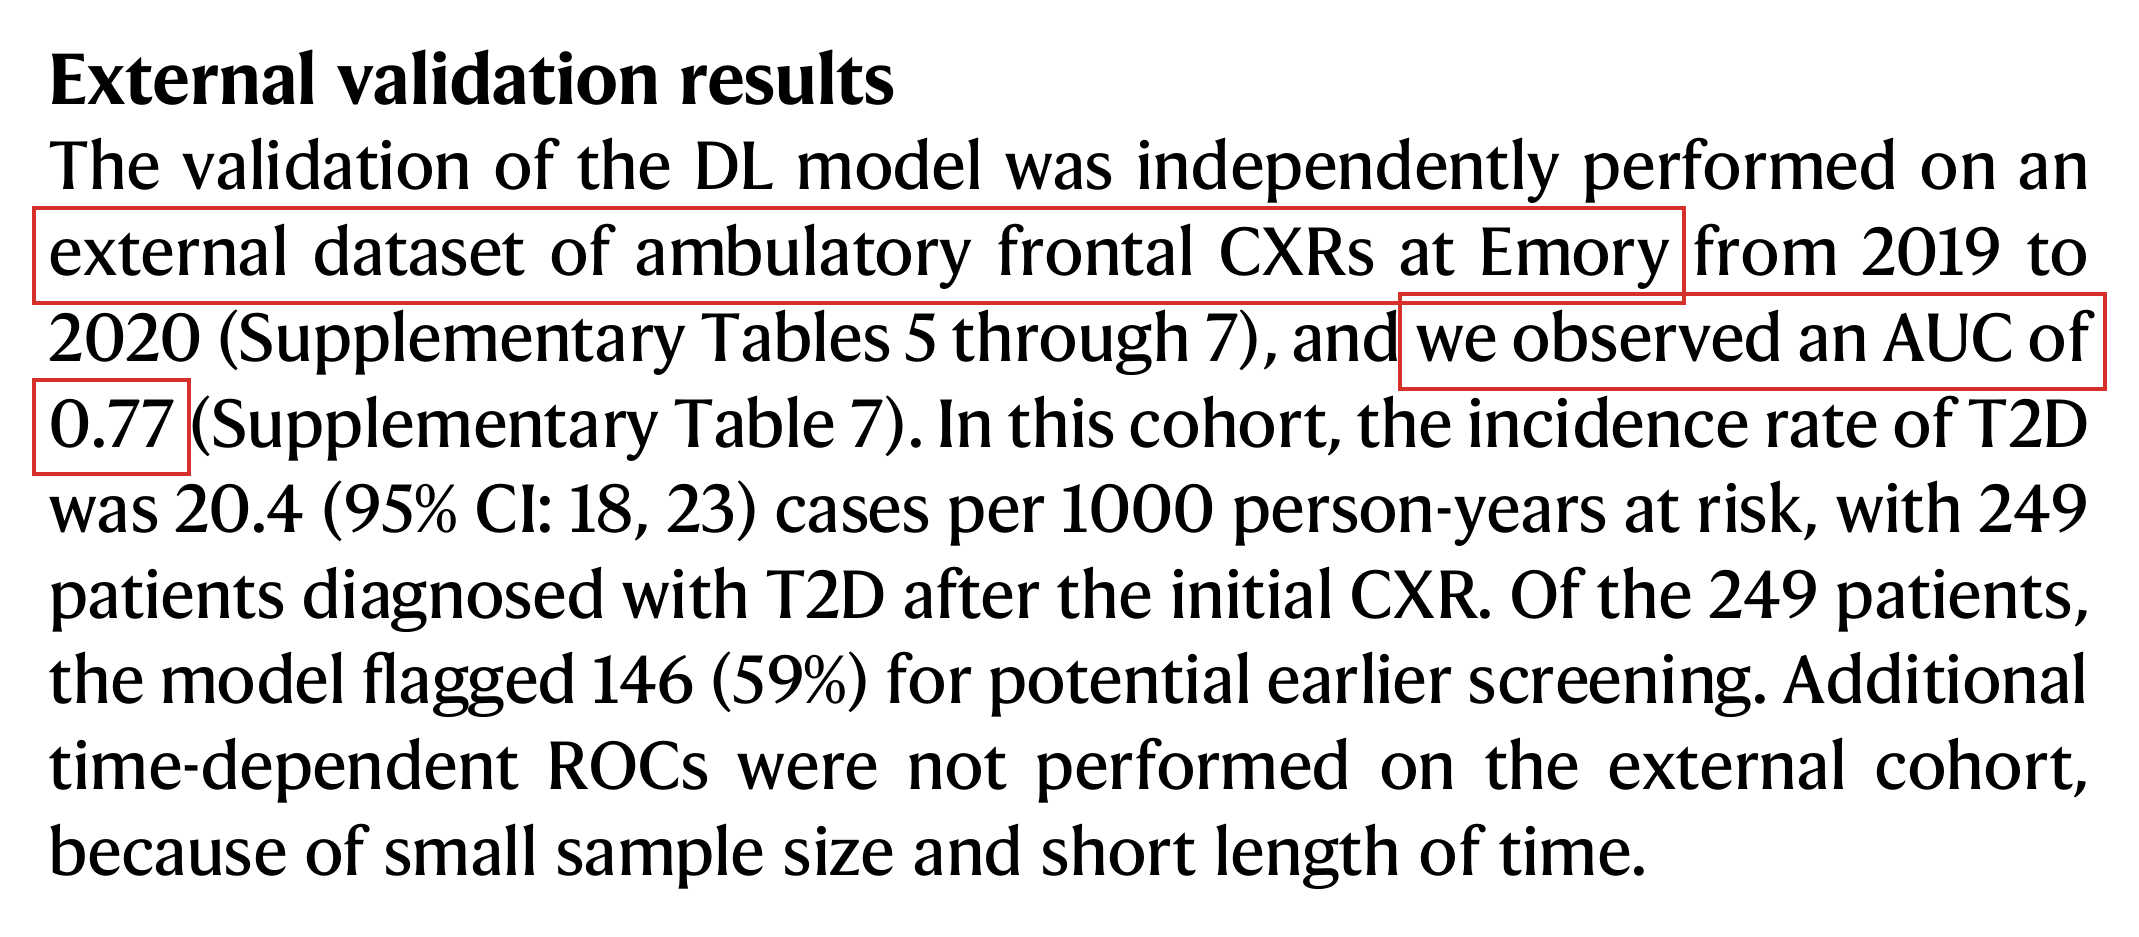
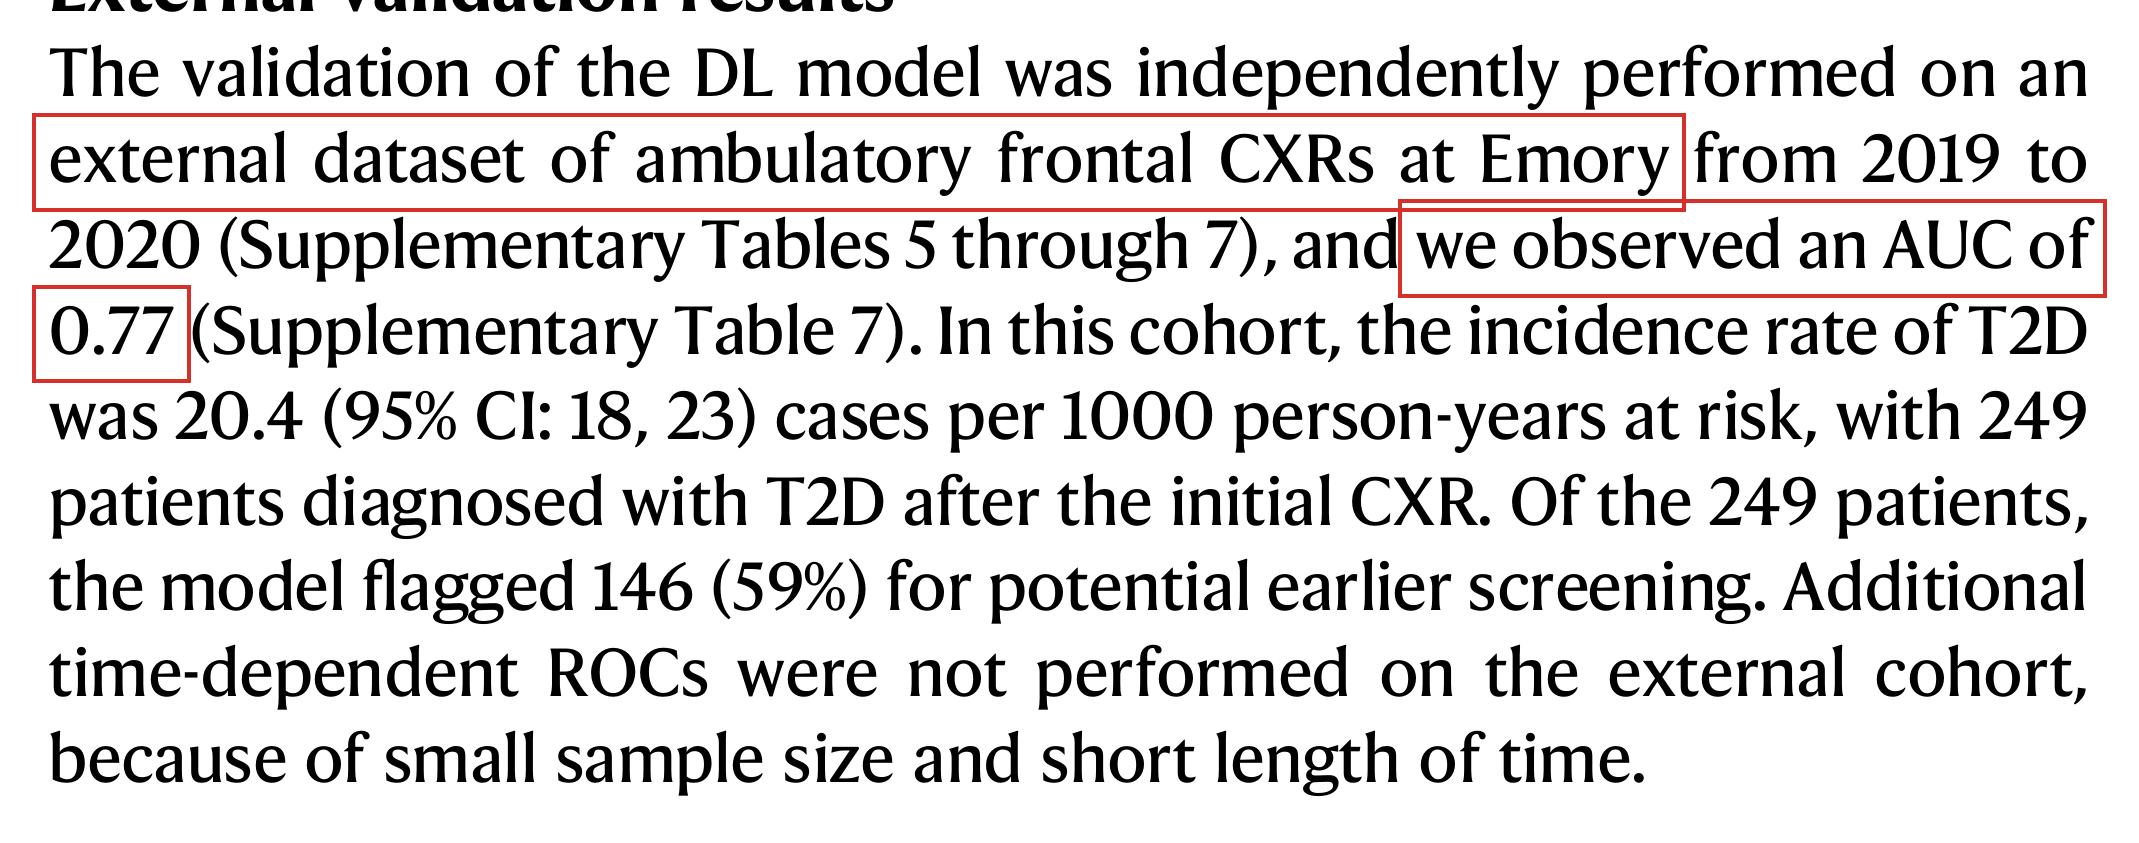
demo: regenerate the committed report under 0.5.0, and pin its judge
examples/demo/output/ is the artefact the README links as "See a completed
report" and it was produced by 0.4.1, so it showed none of what this release
changed -- no verbatim quote above any verdict, which is the visible headline
of 0.5.0.

The demo command now pins --model claude-opus-5. Without it `claude -p` takes
the account default, and that default had quietly moved from opus to haiku
between two regenerations: the showcase's judge depended on which day it was
rebuilt, which is not a property a committed artefact should have.

The pinned expectation moves to 1 supported / 2 contradicted / 1 not retrieved
/ 1 uncited, over 4 claims rather than 5. Every planted defect is still found.
What changed is that the sentence citing both [2] and [3] now arrives as one
multi-source claim instead of two single-source ones, because extraction is
asked for the verbatim sentence. Reproduced on opus-5 and haiku-4.5 alike, so
it is the prompt and not the model -- the first regeneration changed both at
once and the cause stayed ambiguous until a second run separated them.

Two README claims fall out of that: the counts, and the sentence asserting no
demo claim cites more than one reference. The demo now does, so it exercises
the per-source breakdown and the new most-adverse-of-N qualifier, which the
old one never reached.

Changed region(s): [[0.0, 0.0, 0.9874, 0.9561]]

diff --git a/examples/demo/output/report.md b/examples/demo/output/report.md
@@ -1,9 +1,9 @@
 # Fact-Check Report
 
-Checker: `claude -p · claude-opus-5[1m]` · PaperTrace · 2026-08-30
+Checker: `claude -p · claude-opus-5` · PaperTrace · 2026-09-06
 Manuscript: `demo_manuscript.pdf` · Sources: `3 / 4` cited references available
 
-**Claims:** 5 | ✅ **Supported:** 2 | ⚠ **Partial:** 0 | ❌ **Contradicted:** 2 | ⊘ **Not retrieved:** 1
+**Claims:** 4 | ✅ **Supported:** 1 | ⚠ **Partial:** 0 | ❌ **Contradicted:** 2 | ⊘ **Not retrieved:** 1
 **Citation coverage:** 5/5 citation occurrences reached by an extracted claim, across 4 labels — 0 unaddressed, 0 uncertain. Coverage counts places an extracted claim *reached*, not sources that were read.
 
 > Ingest `converter: docling 2.118.1` — layout-aware.
@@ -12,68 +12,76 @@ Manuscript: `demo_manuscript.pdf` · Sources: `3 / 4` cited references available
 
 ---
 
-## Claim 1: "Deep learning on frontal chest radiographs detected type 2 diabetes with an external validation AUC of 0.94."
+## Claim 1: "Deep learning on frontal chest radiographs detected type 2 diabetes with external validation AUC of 0.94."
 
 **Status:** ❌ CONTRADICTED
 **Location:** Background ¶1 · cites [1]
+
+> Deep learning applied to frontal chest radiographs detected type 2 diabetes with an external validation AUC of 0.94 [1].
+
 <br>
 
 ### ❌ CONTRADICTED — `pyrros-2023` (cited as [1])
 
-- **Source:** Page 4 `(block_0094)` 
-> The source does detect T2D from frontal CXRs with deep learning, but its external validation at a separate institution gave a ROC AUC of 0.77, not 0.94 (internal prospective AUC was 0.84).
+- **Source:** Page 4 `(block_0050)` 
+> The source reports external validation at a distinct institution yielding a ROC AUC of 0.77, not 0.94 (internal prospective AUC was 0.84); no 0.94 figure appears anywhere.
 
 ![evidence](evidence/claim_01_pyrros-2023_p4.png)
 *red box = matched text*
-## Claim 3: "The UK Biobank cohort profile describes recruitment of approximately 500,000 adults aged 40-69 years."
+## Claim 3: "UK Biobank recruited approximately 500,000 adults aged 40-69 years, and its imaging enhancement targets 100,000 participants."
 
-**Status:** ✅ SUPPORTED
-**Location:** Population imaging ¶1 · cites [2]
+**Status:** ✅ SUPPORTED — *most adverse of 2 cited sources*
+**Location:** Population imaging ¶1 · cites [2, 3]
+
+> Dedicated cohorts complement such opportunistic reuse: the UK Biobank cohort profile describes recruitment of approximately 500,000 adults aged 40-69 years [2], and its imaging enhancement targets 100,000 participants [3].
+
+> **2 cited sources checked for this claim: 2 fully support it.**
+
 <br>
 
 ### ✅ SUPPORTED — `sudlow-2015` (cited as [2])
 
-- **Source:** Page 1 `(block_0006)` 
-> The source states UK Biobank has over 500,000 participants aged 40–69 years recruited in 2006–2010, matching both the size and age range claimed.
+- **Source:** Page 1 `(block_0018)` 
+> The source states the cohort has "over 500,000 participants aged 40 -69 years when recruited in 2006 -2010", and separately reports multi-modal imaging in a subset of 100,000 participants (block_0038, block_0054).
 
 ![evidence](evidence/claim_03_sudlow-2015_p1.png)
 *red box = matched text*
-## Claim 4: "The UK Biobank imaging enhancement targets 100,000 participants."
-
-**Status:** ✅ SUPPORTED
-**Location:** Population imaging ¶1 · cites [3]
 <br>
 
 ### ✅ SUPPORTED — `littlejohns-2020` (cited as [3])
 
 - **Source:** Page 2 `(block_0013)` 
-> The source states the imaging enhancement aims to scan 100,000 of the 500,000 existing UK Biobank participants.
+> The source states UK Biobank is a cohort of half a million participants aged 40-69 and that the imaging enhancement aims to image 100,000 of the existing 500,000 participants.
 
-![evidence](evidence/claim_04_littlejohns-2020_p2.png)
+![evidence](evidence/claim_03_littlejohns-2020_p2.png)
 *red box = matched text*
-## Claim 5: "Nearly one in five confirmed participants had not attended an imaging assessment centre."
+## Claim 4: "Nearly one in five confirmed UK Biobank participants had not attended an imaging assessment centre."
 
 **Status:** ❌ CONTRADICTED
 **Location:** Population imaging ¶1 · cites [3]
+
+> Attendance logistics remain a bottleneck, however - nearly one in five confirmed participants had not attended an imaging assessment centre [3].
+
 <br>
 
 ### ❌ CONTRADICTED — `littlejohns-2020` (cited as [3])
 
-- **Source:** Page 3 `(block_0027)` 
-> Among confirmed participants the source reports 97% attended and only 3% have not yet attended, not nearly one in five; the 17% figure applies to invited participants who did not wish to attend, not to confirmed ones.
+- **Source:** Page 3 `(block_0023)` 
+> The source reports that of those eligible who booked an appointment, 97% attended an imaging assessment centre, i.e. ~3% non-attendance, not nearly one in five; the ~20% figure in the source is the attendance rate of the full 500,000 cohort required to reach 100,000 scans.
 
-![evidence](evidence/claim_05_littlejohns-2020_p3.png)
+![evidence](evidence/claim_04_littlejohns-2020_p3.png)
 *red box = matched text*
 ---
 
-## Not verified — source not retrieved, or check failed (1 of 5)
+## Not verified — source not retrieved, or check failed (1 of 4)
 
 Either the cited PDF could not be obtained, or the source was available but
 the check step failed (see each note).
 Reported as such — never filled in from memory.
 
 - **Background** (1):
-  - [4] Regulators are clearing AI systems for clinical imaging use at an accelerating pace. — *cited source not available (paywalled)*
+  - ⊘ NOT RETRIEVED · [4] Regulatory clearance of AI systems for clinical imaging is accelerating. — *cited source not available (paywalled)*
+
 ## Assertions without citation (1) — your judgement required
 
 Statements that would normally carry a reference but don't. Not verified —
@@ -92,9 +100,9 @@ proves nothing, and presence is a candidate for your judgement, not an accusatio
 
 | # | Reference | Status | Via | Note |
 |---|-----------|--------|-----|------|
-| 1 | Pyrros A, Borstelmann SM, Mantravadi R, et al (2023) Opportunistic detection of … | retrieved | unpaywall | open-access copy via Unpaywall |
-| 2 | Sudlow C, Gallacher J, Allen N, et al (2015) UK Biobank: An Open Access Resource… | retrieved | unpaywall | open-access copy via Unpaywall |
-| 3 | Littlejohns TJ, Holliday J, Gibson LM, et al (2020) The UK Biobank imaging enhan… | retrieved | unpaywall | open-access copy via Unpaywall |
+| 1 | Pyrros A, Borstelmann SM, Mantravadi R, et al (2023) Opportunistic detection of … | retrieved | unpaywall | open-access copy via Unpaywall · title check: 11/11 reference tokens on its first page |
+| 2 | Sudlow C, Gallacher J, Allen N, et al (2015) UK Biobank: An Open Access Resource… | retrieved | unpaywall | open-access copy via Unpaywall · title check: 12/12 reference tokens on its first page |
+| 3 | Littlejohns TJ, Holliday J, Gibson LM, et al (2020) The UK Biobank imaging enhan… | retrieved | unpaywall | open-access copy via Unpaywall · title check: 12/12 reference tokens on its first page |
 | 4 | Rajpurkar P, Lungren MP (2023) The Current and Future State of AI Interpretation… | paywalled | — | DOI resolved but no legal open-access copy found |
 
 ---

diff --git a/README.md b/README.md
@@ -36,10 +36,12 @@ A missed citation is reported, not silently skipped.</b></p>
 > **See the result first — no install needed.** The demo report committed at
 > [`examples/demo/output/report.md`](examples/demo/output/report.md) audits a
 > fictional mini-review with planted citation errors and real, published
-> references: **2 supported · 2 contradicted · 1 not retrieved · 1 uncited
+> references: **1 supported · 2 contradicted · 1 not retrieved · 1 uncited
 > assertion** — the planted errors, and exactly them, *in that run*. Extraction
 > and judgement are model steps, so the committed report is an inspectable
-> artefact, not a guaranteed re-run.
+> artefact, not a guaranteed re-run: the same demo audited under 0.4.1 returned
+> *2* supported, because extraction split one sentence citing two references
+> into two claims instead of keeping it whole. Same defects found either way.
 
 Pick a paper that matters to you — the landmark your project builds on, the
 method paper you are about to adopt, your own published work. PaperTrace
@@ -459,13 +461,17 @@ claim checker runs on `claude -p`.
 pip install -e ".[full]" && playwright install chromium   # 1 · install
 export PAPERTRACE_EMAIL="you@example.org"                 # 2 · Unpaywall contact
 python examples/demo/make_manuscript.py                   # 3 · build the demo paper
-papertrace run examples/demo/demo_manuscript.pdf -c demo_case   # 4 · audit it
+papertrace run examples/demo/demo_manuscript.pdf -c demo_case \
+    --model claude-opus-5                                 # 4 · audit it
 ```
 
 When it finishes, open `demo_case/out/report.md`. Expected result:
-**2 supported · 2 contradicted · 1 not retrieved**, one uncited assertion
+**1 supported · 2 contradicted · 1 not retrieved**, one uncited assertion
 flagged, and all 5 citation occurrences — spread across the 4 labels — reached
-by an extracted claim, 0 uncertain. (The scout step reports the fictional paper
+by an extracted claim, 0 uncertain. That is **4** claims for 5 occurrences,
+because the sentence citing both [2] and [3] arrives as one multi-source claim;
+0.4.1 split it and reported 2 supported across 5 claims. What matters is the
+same in both: the two planted contradictions found, [4] declined. (The scout step reports the fictional paper
 as *not identified* in Europe PMC — the tool would rather say so than invent
 neighbours. Verdict wording varies run to run, and
 extraction and judgement are live model behaviour that nothing in the code
@@ -480,8 +486,11 @@ Details per plant:
 > stays an inspectable artefact, not a byte-exact expected output: judgement
 > wording differs between runs, and so can the page an anchor is found on — the
 > crop for claim 4 moved from page 1 to page 2 across two runs that reached the
-> same verdict. No claim in the demo cites more than one reference, so the
-> per-source breakdown and its summary count do not appear in it.
+> same verdict. Whether a claim cites more than one reference varies too: in
+> the committed 0.5.0 run the sentence citing [2] and [3] is a single
+> multi-source claim, so the per-source breakdown and the `most adverse of 2
+> cited sources` qualifier both appear; under 0.4.1 the same sentence became
+> two single-source claims and neither did.
 
 ## How it works
 

diff --git a/CHANGELOG.md b/CHANGELOG.md
@@ -8,6 +8,31 @@ All notable changes to PaperTrace are documented here. The format follows
 
 0.4.1 was never released, so its entries below ship together with these.
 
+### Changed — the committed demo report is regenerated, and its judge is pinned
+
+`examples/demo/output/` is the only committed output and the artefact the README
+links as *"See a completed report"*. It was produced on 2026-08-30 by 0.4.1, so
+it showed none of what this release changed.
+
+- **Regenerated under 0.5.0**, and the demo command now pins
+  `--model claude-opus-5`. Without it `claude -p` takes the account default,
+  which had silently moved from opus to haiku between two regenerations — so
+  the committed showcase's judge depended on the day it was rebuilt.
+- **The pinned expectation moves to `1 supported · 2 contradicted · 1 not
+  retrieved · 1 uncited assertion`, over 4 claims rather than 5.** All four
+  planted defects are still found; what changed is that the sentence citing
+  both [2] and [3] now arrives as **one multi-source claim** instead of two
+  single-source ones, because extraction is asked for the verbatim sentence.
+  **Reproduced on `claude-opus-5` and `claude-haiku-4-5` alike**, so it is the
+  prompt and not the model — which is worth stating, because the first
+  regeneration changed both at once and the cause was ambiguous until the
+  second run isolated it.
+- Two README claims corrected as a consequence: the counts, and the line
+  asserting that no claim in the demo cites more than one reference. That is
+  now false, and the demo consequently exercises the per-source breakdown and
+  the new `most adverse of 2 cited sources` qualifier — which the old one
+  never did.
+
 ### Changed — cited sources are read with the layout backend ⚠ **breaking**
 
 `check.py` hard-coded `backend="pymupdf"` for every cited source, and said why:

diff --git a/examples/demo/README.md b/examples/demo/README.md
@@ -16,10 +16,14 @@ planted on purpose:
 | [4] | a headline claim resting on a **paywalled** reference | ⊘ `not_retrieved` |
 | — | "Routine imaging archives are among the largest untapped screening resources in medicine." — assertive, **no citation** | flagged in the uncited register |
 
-The remaining claims citing [2] and [3] state published cohort facts
+The remaining material citing [2] and [3] states published cohort facts
 faithfully and should come back ✅ `supported`. (Judgement calls like
 supported-vs-partial can vary a little between runs — the checker is a
-model. The planted contradictions are stable.)
+model. The *shape* changed with 0.5.0 rather than with the model: asking
+extraction for the verbatim sentence makes the sentence citing both [2] and
+[3] one multi-source claim, where 0.4.1 split it into two — so the total is 4
+claims for 5 citation occurrences. Reproduced on both `claude-opus-5` and
+`claude-haiku-4-5`. The planted contradictions are stable throughout.)
 
 ## Run it
 
@@ -39,7 +43,10 @@ export PAPERTRACE_EMAIL="you@example.org"   # use your real address
 python examples/demo/make_manuscript.py
 
 # 4) run the audit — the resolver fetches the open-access references live
-papertrace run examples/demo/demo_manuscript.pdf -c demo_case
+# --model pinned so this matches the committed output/ — otherwise the
+# account default decides the judge, and it changes
+papertrace run examples/demo/demo_manuscript.pdf -c demo_case \
+    --model claude-opus-5
 
 # then read the results:
 open demo_case/out/report.md

diff --git a/CLAUDE.md b/CLAUDE.md
@@ -53,8 +53,17 @@ End-to-end smoke test — needs network and a logged-in `claude` CLI, ~5 min:
 
 ```bash
 python examples/demo/make_manuscript.py
-papertrace run examples/demo/demo_manuscript.pdf -c demo_case
-# expect: 2 supported · 2 contradicted · 1 not retrieved · 1 uncited assertion
+# --model is pinned so the committed showcase is reproducible: without it
+# `claude -p` takes the account default, which silently changed the judge
+# from opus to haiku between two regenerations of examples/demo/output/
+papertrace run examples/demo/demo_manuscript.pdf -c demo_case \
+    --model claude-opus-5 --format terminal --png
+# expect: 1 supported · 2 contradicted · 1 not retrieved · 1 uncited assertion
+# 4 claims, not 5: the sentence citing [2] and [3] comes back as ONE
+# multi-source claim, because 0.5.0 asks extraction for the verbatim sentence.
+# Reproduced on both claude-opus-5 and claude-haiku-4-5, so it is the prompt
+# and not the model. Both planted contradictions, the paywalled [4] and the
+# uncited assertion are what actually matter and are unaffected.
 ```
 
 Install: `pip install -e ".[dev]"` for development (this is also exactly what
